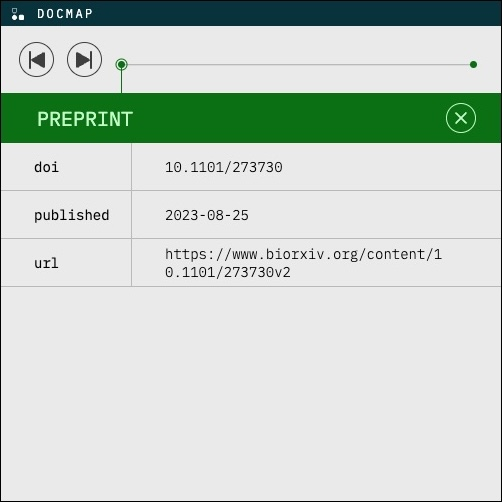
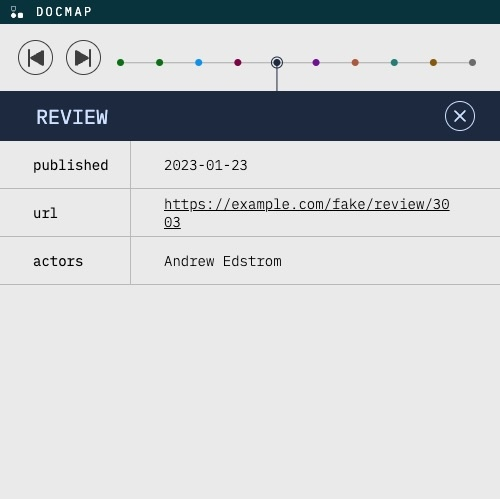
allow docmaps to be passed to the widget with widgetElement.docmap = myCustomDocmap

Changed region(s): [[0.0, 0.0, 1.0, 1.0], [0.06, 0.511, 0.18, 0.5411]]

diff --git a/packages/widget/index.html b/packages/widget/index.html
@@ -6,6 +6,8 @@
   <meta name='viewport' content='width=device-width, initial-scale=1.0' />
   <title>Vite + Lit + TS</title>
   <script type='module' src='/src/docmaps-widget.ts'></script>
+  <script>
+  </script>
 </head>
 <body>
 
@@ -13,8 +15,209 @@
   10.1101/273730
 </p>
 <div id='root'>
-  <docmaps-widget serverurl='https://web-nodejs.onrender.com' doi='10.1101/273730'></docmaps-widget>
+  <docmaps-widget id='my-widget' serverurl='https://web-nodejs.onrender.com' doi='10.1101/273730'></docmaps-widget>
 </div>
+
+<script>
+  customElements.whenDefined('docmaps-widget').then(() => {
+    const exampleDocmap = {
+      '@context': 'https://w3id.org/docmaps/context.jsonld',
+      'type': 'docmap',
+      'id': 'https://data-hub-api.elifesciences.org/enhanced-preprints/docmaps/v1/get-by-doi?preprint_doi=10.1101%2F2022.11.08.000001',
+      'created': '2022-11-28T11:30:05+00:00',
+      'updated': '2022-11-28T11:30:05+00:00',
+      'publisher': {
+        'account': {
+          'id': 'https://sciety.org/groups/elife',
+          'service': 'https://sciety.org',
+        },
+        'homepage': 'https://elifesciences.org/',
+        'id': 'https://elifesciences.org/',
+        'logo': 'https://sciety.org/static/groups/elife--b560187e-f2fb-4ff9-a861-a204f3fc0fb0.png',
+        'name': 'eLife',
+      },
+      'first-step': '_:b0',
+      'steps': {
+        '_:b0': {
+          'actions': [
+            {
+              'participants': [],
+              'outputs': [
+                {
+                  'type': 'preprint',
+                  'doi': '10.1101/2022.11.08.000001',
+                  'url': 'https://www.biorxiv.org/content/10.1101/2022.11.08.000001v2',
+                  'published': '2022-11-22',
+                  'versionIdentifier': '2',
+                },
+              ],
+            },
+          ],
+          'assertions': [
+            {
+              'item': {
+                'type': 'preprint',
+                'doi': '10.1101/2022.11.08.000001',
+                'versionIdentifier': '2',
+              },
+              'status': 'manuscript-published',
+            },
+          ],
+          'inputs': [],
+          'next-step': '_:b1',
+        },
+        '_:b1': {
+          'actions': [
+            {
+              'participants': [],
+              'outputs': [
+                {
+                  'identifier': '85111',
+                  'versionIdentifier': '',
+                  'type': 'preprint',
+                  'doi': '10.7554/eLife.00001',
+                },
+              ],
+            },
+          ],
+          'assertions': [
+            {
+              'item': {
+                'type': 'preprint',
+                'doi': '10.1101/2022.11.08.000001',
+                'versionIdentifier': '2',
+              },
+              'status': 'under-review',
+              'happened': '2022-11-28T11:30:05+00:00',
+            },
+            {
+              'item': {
+                'type': 'preprint',
+                'doi': '10.7554/eLife.00001',
+                'versionIdentifier': '',
+              },
+              'status': 'draft',
+            },
+          ],
+          'inputs': [
+            {
+              'type': 'preprint',
+              'doi': '10.1101/2022.11.08.000001',
+              'url': 'https://www.biorxiv.org/content/10.1101/2022.11.08.000001v2',
+              'versionIdentifier': '2',
+            },
+          ],
+          'next-step': '_:b2',
+          'previous-step': '_:b0',
+        },
+        '_:b2': {
+          'actions': [
+            {
+              'participants': [
+                {
+                  'actor': {
+                    'name': 'anonymous',
+                    'type': 'person',
+                  },
+                  'role': 'peer-reviewer',
+                },
+              ],
+              'outputs': [
+                {
+                  'type': 'review-article',
+                  'published': '2023-01-23T14:34:44.369019+00:00',
+                  'content': [
+                    {
+                      'type': 'web-page',
+                      'url': 'https://hypothes.is/a/FD5EmpsrEe28RaOWOszMEw',
+                    },
+                    {
+                      'type': 'web-page',
+                      'url': 'https://sciety.org/articles/activity/10.1101/2022.11.08.000001#hypothesis:FD5EmpsrEe28RaOWOszMEw',
+                    },
+                    {
+                      'type': 'web-page',
+                      'url': 'https://sciety.org/evaluations/hypothesis:FD5EmpsrEe28RaOWOszMEw/content',
+                    },
+                  ],
+                },
+              ],
+            },
+            {
+              'participants': [
+                {
+                  'actor': {
+                    'name': 'Andrew Edstrom',
+                    'type': 'person',
+                  },
+                  'role': 'editor',
+                },
+              ],
+              'outputs': [
+                {
+                  'type': 'journal-article',
+                  'published': '2023-01-23T14:34:45.299Z',
+                  'url': 'https://example.com/fake-journal/article/3003',
+                },
+                {
+                  'type': 'review',
+                  'published': '2023-01-23T14:34:45.299Z',
+                  'url': 'https://example.com/fake/review/3003',
+                },
+                {
+                  'type': 'reply',
+                  'published': '2023-01-23T14:34:45.299Z',
+                  'url': 'https://example.com/fake/reply/3003',
+                },
+                {
+                  'type': 'comment',
+                  'published': '2023-01-23T14:34:45.299Z',
+                  'url': 'https://example.com/fake/comment/3003',
+                },
+                {
+                  'type': 'editorial',
+                  'published': '2023-01-23T14:34:45.299Z',
+                  'url': 'https://example.com/fake/editorial/3003',
+                },
+                {
+                  'type': 'evaluation-summary',
+                  'published': '2023-01-23T14:34:45.299Z',
+                  'url': 'https://example.com/fake-evaluation/summary/3003',
+                },
+                {
+                  'published': '2023-01-23T14:34:45.299Z',
+                  'url': 'https://example.com/fake/review/3003',
+                },
+
+              ],
+            },
+          ],
+          'assertions': [
+            {
+              'item': {
+                'type': 'preprint',
+                'doi': '10.1101/2022.11.08.000001',
+                'versionIdentifier': '2',
+              },
+              'status': 'peer-reviewed',
+            },
+          ],
+          'inputs': [
+            {
+              'type': 'preprint',
+              'doi': '10.7554/eLife.00001',
+            },
+          ],
+          'previous-step': '_:b1',
+        },
+      },
+    };
+    const widgetElement = document.getElementById('my-widget');
+    // uncomment this line to pass in an example docmap
+    widgetElement.docmap = exampleDocmap;
+  });
+
+</script>
 <br>
 <br>
 </body>

diff --git a/packages/widget/src/docmaps-widget.ts b/packages/widget/src/docmaps-widget.ts
@@ -3,7 +3,7 @@ import { customElement, property, state } from 'lit/decorators.js';
 import { customCss } from './styles';
 import { logo } from './assets';
 import { Task } from '@lit/task';
-import { DocmapFetchingParams, getDocmap } from './docmap-controller';
+import { DocmapFetchingParams, docmapToDisplayObjectGraph, getDocmap } from './docmap-controller';
 import { DisplayObject, DisplayObjectGraph, GRAPH_CANVAS_ID } from './display-object';
 import { clearGraph, displayGraph } from './graph-view';
 import { renderDetailsView } from './detail-view';
@@ -20,7 +20,14 @@ export class DocmapsWidget extends LitElement {
   @state() // This decorator automatically causes a rerender when the selecetdNode changes
   selectedNode?: DisplayObject; // if this is set, we're showing the detail view
 
-  allNodes: DisplayObject[] = [];
+  @state()
+  graph?: DisplayObjectGraph;
+
+  #hasRenderedOnce: boolean = false;
+
+  set docmap(docmap: any) {
+    this.configureWithDocmap(docmap);
+  }
 
   #docmapFetchingTask: Task<DocmapFetchingParams, DisplayObjectGraph> = new Task(
     this,
@@ -32,6 +39,7 @@ export class DocmapsWidget extends LitElement {
 
   firstUpdated() {
     loadFont();
+    this.#hasRenderedOnce = true;
   }
 
   private showDetailViewForNode = (node: DisplayObject) => {
@@ -58,20 +66,33 @@ export class DocmapsWidget extends LitElement {
     `;
   }
 
+  private configureWithDocmap(docmap: any) {
+    this.graph = docmapToDisplayObjectGraph(docmap);
+  }
+
+  private renderGraphView({ nodes, edges }: DisplayObjectGraph) {
+    if (this.shadowRoot) {
+      displayGraph(nodes, edges, this.shadowRoot, this.showDetailViewForNode);
+    }
+  }
+
+  onFetchComplete = (graph: DisplayObjectGraph) => {
+    this.graph = graph;
+    this.renderGraphView(graph);
+    // D3 draws in the canvas for us, so we do not return html representing the graph
+    return nothing;
+  };
+
   private graphView() {
-    const onFetchComplete = ({ nodes, edges }: DisplayObjectGraph) => {
-      if (this.shadowRoot) {
-        this.allNodes = nodes;
-        displayGraph(nodes, edges, this.shadowRoot, this.showDetailViewForNode);
+    if (this.graph) {
+      if (this.#hasRenderedOnce) {
+        this.renderGraphView(this.graph);
       }
-
-      return nothing; // D3 draws the graph for us, so we have nothing to actually render here
-    };
-
-    // this function usually returns a template result, but we don't need it currently since d3 draws the graph for us
-    this.#docmapFetchingTask.render({
-      complete: onFetchComplete,
-    });
+    } else {
+      this.#docmapFetchingTask?.render({
+        complete: this.onFetchComplete,
+      });
+    }
 
     return html` <div id="tooltip" class="tooltip" style="opacity:0;"></div>`;
   }
@@ -82,9 +103,13 @@ export class DocmapsWidget extends LitElement {
       return nothing;
     }
 
+    if (!this.graph) {
+      return nothing;
+    }
+
     return renderDetailsView(
       this.selectedNode,
-      this.allNodes,
+      this.graph.nodes,
       this.showDetailViewForNode,
       this.closeDetailView,
     );

diff --git a/packages/widget/src/detail-view.ts b/packages/widget/src/detail-view.ts
@@ -27,12 +27,12 @@ export function renderDetailsView(
     fieldsToDisplay.length > 0 ? createMetadataGrid(fieldsToDisplay) : emptyMetadataMessage();
 
   return html`
-    <div class="detail-timeline">
+    <div class="detail-timeline no-select">
       ${renderDetailNavigationHeader(allNodes, selectedNode, updateSelectedNode)}
     </div>
 
     <div class="detail-header" style="background: ${backgroundColor};">
-      <span style="color: ${textColor};"> ${opts.longLabel} </span>
+      <span style="color: ${textColor};" class="no-select">${opts.longLabel}</span>
       <div class="close-button clickable" @click="${closeDetailsView}">
         ${closeDetailsButton(textColor)}
       </div>

diff --git a/packages/widget/src/docmap-controller.ts b/packages/widget/src/docmap-controller.ts
@@ -26,6 +26,11 @@ interface NameHaver {
   name: string;
 }
 
+export function docmapToDisplayObjectGraph(rawDocmap: any): DisplayObjectGraph {
+  const steps: StepT[] = getSteps(rawDocmap);
+  return stepsToGraph(steps);
+}
+
 export const getDocmap: TaskFunction<DocmapFetchingParams, DisplayObjectGraph> = async ([
   serverUrl,
   doi,
@@ -45,8 +50,7 @@ export const getDocmap: TaskFunction<DocmapFetchingParams, DisplayObjectGraph> =
   }
 
   const rawDocmap = resp.body;
-  const steps: StepT[] = getSteps(rawDocmap);
-  return stepsToGraph(steps);
+  return docmapToDisplayObjectGraph(rawDocmap);
 };
 
 // This function is general enough we could probably move it into the SDK

diff --git a/packages/widget/src/styles.ts b/packages/widget/src/styles.ts
@@ -16,6 +16,13 @@ export const customCss: CSSResult = css`
     cursor: pointer;
   }
 
+  .no-select {
+    -webkit-user-select: none; /* Safari */
+    -moz-user-select: none; /* Firefox */
+    -ms-user-select: none; /* IE10+/Edge */
+    user-select: none; /* Standard */
+  }
+
   button {
     border-radius: 8px;
     border: 1px solid transparent;
